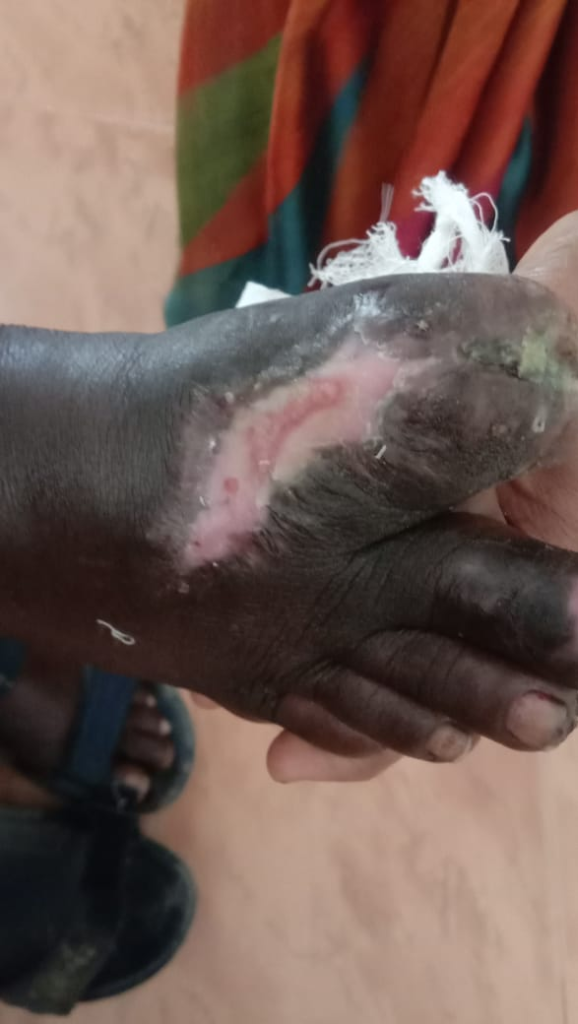
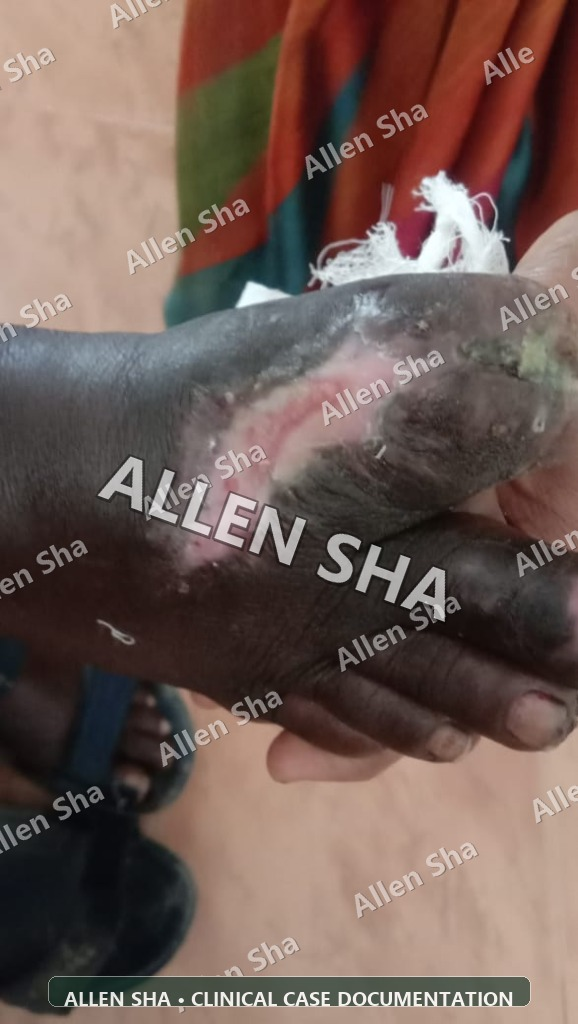
Add permanent Allen Sha watermarks to all testimonial clinical images

diff --git a/scripts/watermark_images.py b/scripts/watermark_images.py
@@ -1,0 +1,106 @@
+import os
+import glob
+from PIL import Image, ImageDraw, ImageFont
+
+def create_watermarked_images():
+    image_dir = "public/images/testimonials"
+    files = glob.glob(os.path.join(image_dir, "*.jpg"))
+    font_path = "C:/Windows/Fonts/segoeuib.ttf"
+    
+    for file_path in files:
+        img = Image.open(file_path).convert("RGBA")
+        width, height = img.size
+        
+        # Create a transparent overlay
+        overlay = Image.new("RGBA", (width, height), (255, 255, 255, 0))
+        draw = ImageDraw.Draw(overlay)
+        
+        # Font sizes based on image dimensions
+        main_font_size = int(min(width, height) * 0.12)
+        grid_font_size = int(min(width, height) * 0.055)
+        badge_font_size = int(min(width, height) * 0.035)
+        
+        main_font = ImageFont.truetype(font_path, main_font_size)
+        grid_font = ImageFont.truetype(font_path, grid_font_size)
+        badge_font = ImageFont.truetype(font_path, badge_font_size)
+        
+        # 1. Create a diagonal repeating watermark pattern
+        tile_w, tile_h = int(width * 1.5), int(height * 1.5)
+        tile_img = Image.new("RGBA", (tile_w, tile_h), (255, 255, 255, 0))
+        tile_draw = ImageDraw.Draw(tile_img)
+        
+        step_x = int(width * 0.35)
+        step_y = int(height * 0.22)
+        
+        for y in range(0, tile_h, step_y):
+            for x in range(0, tile_w, step_x):
+                # offset alternating rows
+                offset_x = (step_x // 2) if (y // step_y) % 2 == 1 else 0
+                pos_x = x + offset_x
+                pos_y = y
+                
+                # Shadow
+                tile_draw.text((pos_x + 1, pos_y + 1), "Allen Sha", font=grid_font, fill=(0, 0, 0, 70))
+                # Text
+                tile_draw.text((pos_x, pos_y), "Allen Sha", font=grid_font, fill=(255, 255, 255, 110))
+        
+        # Rotate tile
+        rotated_tile = tile_img.rotate(28, resample=Image.Resampling.BICUBIC, expand=False)
+        crop_x = (tile_w - width) // 2
+        crop_y = (tile_h - height) // 2
+        cropped_tile = rotated_tile.crop((crop_x, crop_y, crop_x + width, crop_y + height))
+        
+        # Composite rotated grid onto overlay
+        overlay.alpha_composite(cropped_tile)
+        
+        # 2. Add Center Prominent Watermark
+        center_overlay = Image.new("RGBA", (width, height), (255, 255, 255, 0))
+        c_draw = ImageDraw.Draw(center_overlay)
+        center_text = "ALLEN SHA"
+        bbox = c_draw.textbbox((0, 0), center_text, font=main_font)
+        tw = bbox[2] - bbox[0]
+        th = bbox[3] - bbox[1]
+        cx = (width - tw) // 2
+        cy = (height - th) // 2
+        
+        # Dark outline / shadow for center text
+        for dx, dy in [(-2,0), (2,0), (0,-2), (0,2), (-2,-2), (2,2), (-2,2), (2,-2), (0,3), (3,3)]:
+            c_draw.text((cx + dx, cy + dy), center_text, font=main_font, fill=(0, 0, 0, 90))
+        c_draw.text((cx, cy), center_text, font=main_font, fill=(255, 255, 255, 160))
+        
+        # Rotate center text slightly (-20 deg)
+        rot_center = center_overlay.rotate(-20, resample=Image.Resampling.BICUBIC, center=(width//2, height//2))
+        overlay.alpha_composite(rot_center)
+        
+        # 3. Add Bottom Watermark Bar / Badge (Guaranteed visibility if downloaded)
+        b_draw = ImageDraw.Draw(overlay)
+        badge_text = "ALLEN SHA • CLINICAL CASE DOCUMENTATION"
+        b_bbox = b_draw.textbbox((0, 0), badge_text, font=badge_font)
+        bw = b_bbox[2] - b_bbox[0]
+        bh = b_bbox[3] - b_bbox[1]
+        
+        pad_x, pad_y = 16, 8
+        bar_w = bw + (pad_x * 2)
+        bar_h = bh + (pad_y * 2)
+        bar_x = (width - bar_w) // 2
+        bar_y = height - bar_h - 18
+        
+        # Rounded background box
+        b_draw.rounded_rectangle(
+            [bar_x, bar_y, bar_x + bar_w, bar_y + bar_h],
+            radius=8,
+            fill=(20, 50, 40, 160),
+            outline=(255, 255, 255, 120),
+            width=1
+        )
+        b_draw.text((bar_x + pad_x, bar_y + pad_y), badge_text, font=badge_font, fill=(255, 255, 255, 220))
+        
+        # Composite overlay with original image
+        final_img = Image.alpha_composite(img, overlay).convert("RGB")
+        
+        # Save back to file
+        final_img.save(file_path, "JPEG", quality=92, optimize=True)
+        print(f"Watermarked: {file_path}")
+
+if __name__ == "__main__":
+    create_watermarked_images()
